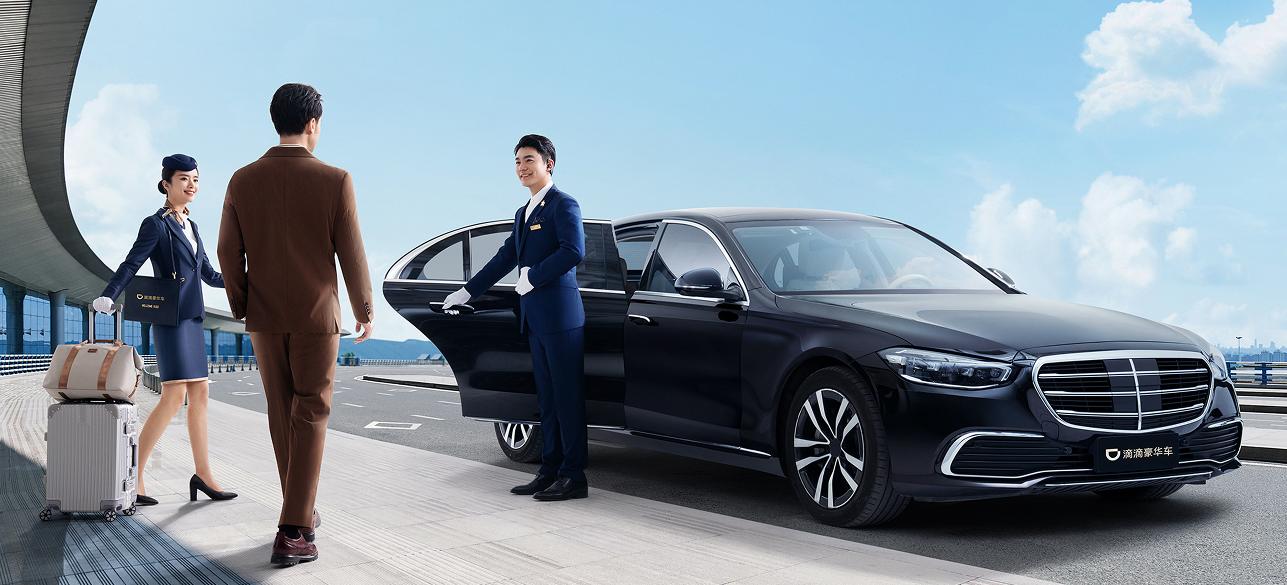
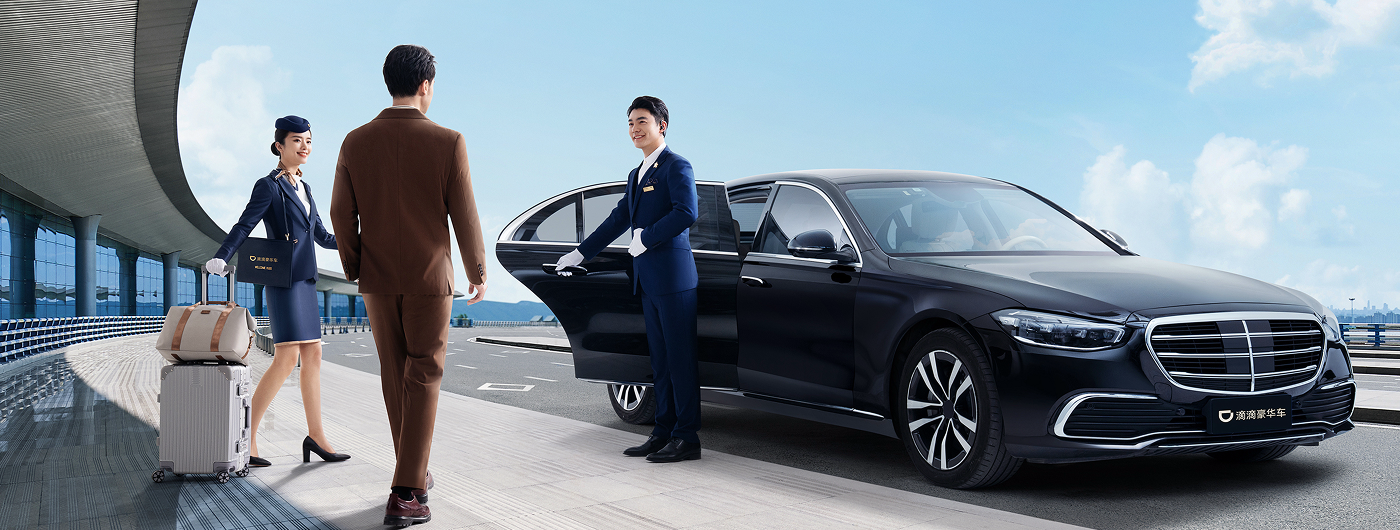
Revert hero section back to 100vh, update hero.png image

diff --git a/didi.html b/didi.html
@@ -233,8 +233,8 @@ height="0" width="0" style="display:none;visibility:hidden"></iframe></noscript>
   .didi-hero-section {
     position:relative;
     display:flex; flex-direction:column; align-items:center; justify-content:center;
-    min-height:70vh;
-    padding:100px 196px 60px;
+    min-height:100vh;
+    padding:120px 196px 80px;
     gap:64px;
   }
   .didi-hero-bg {
